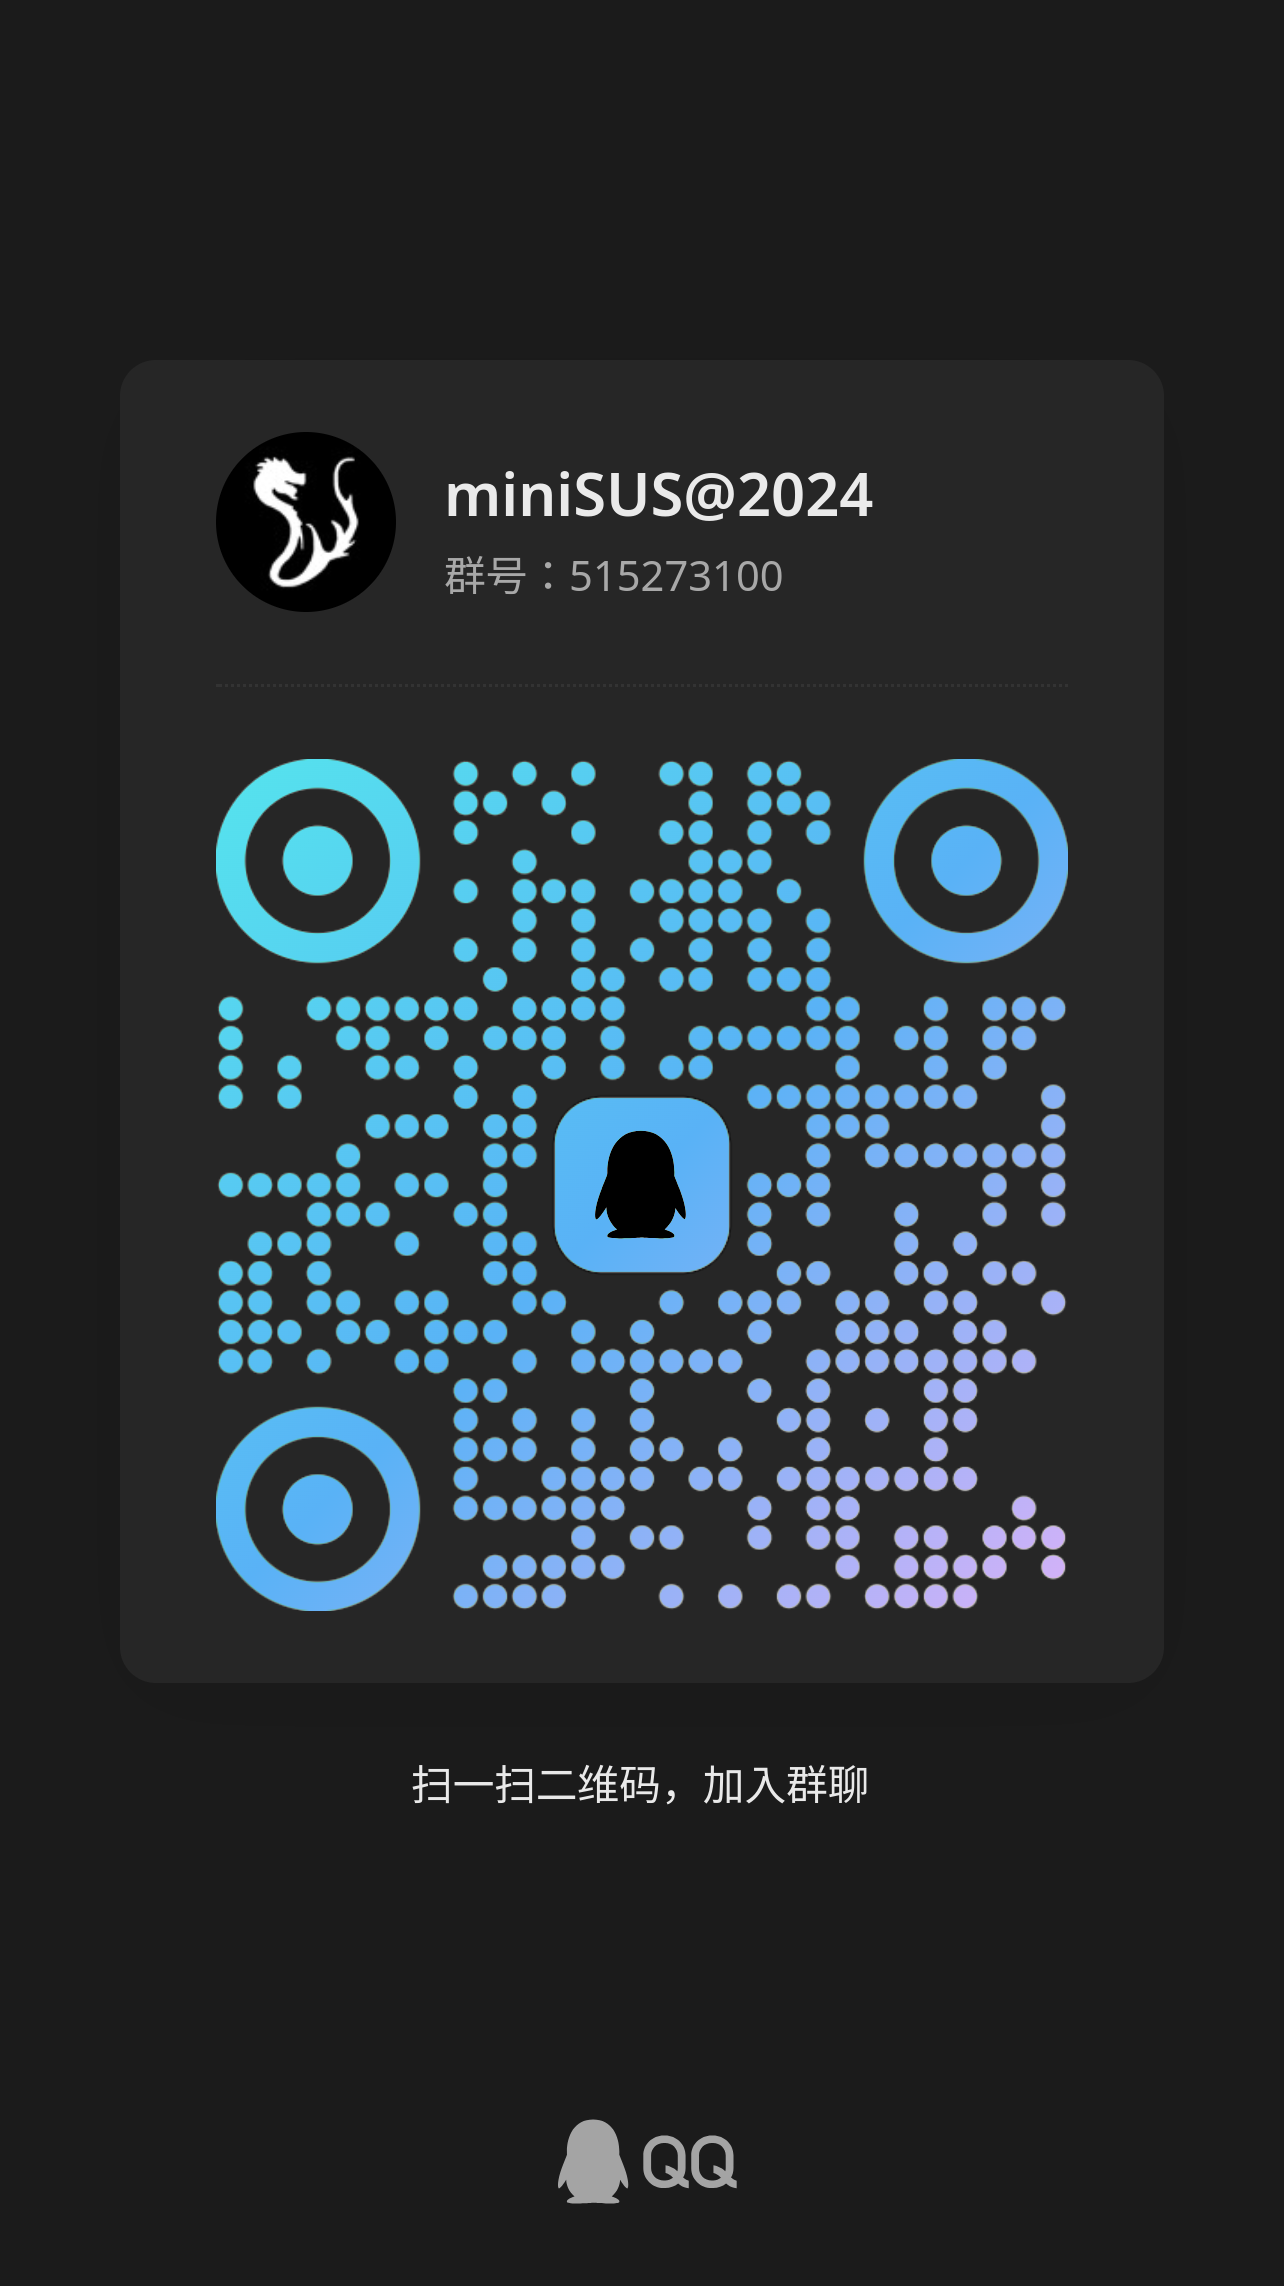
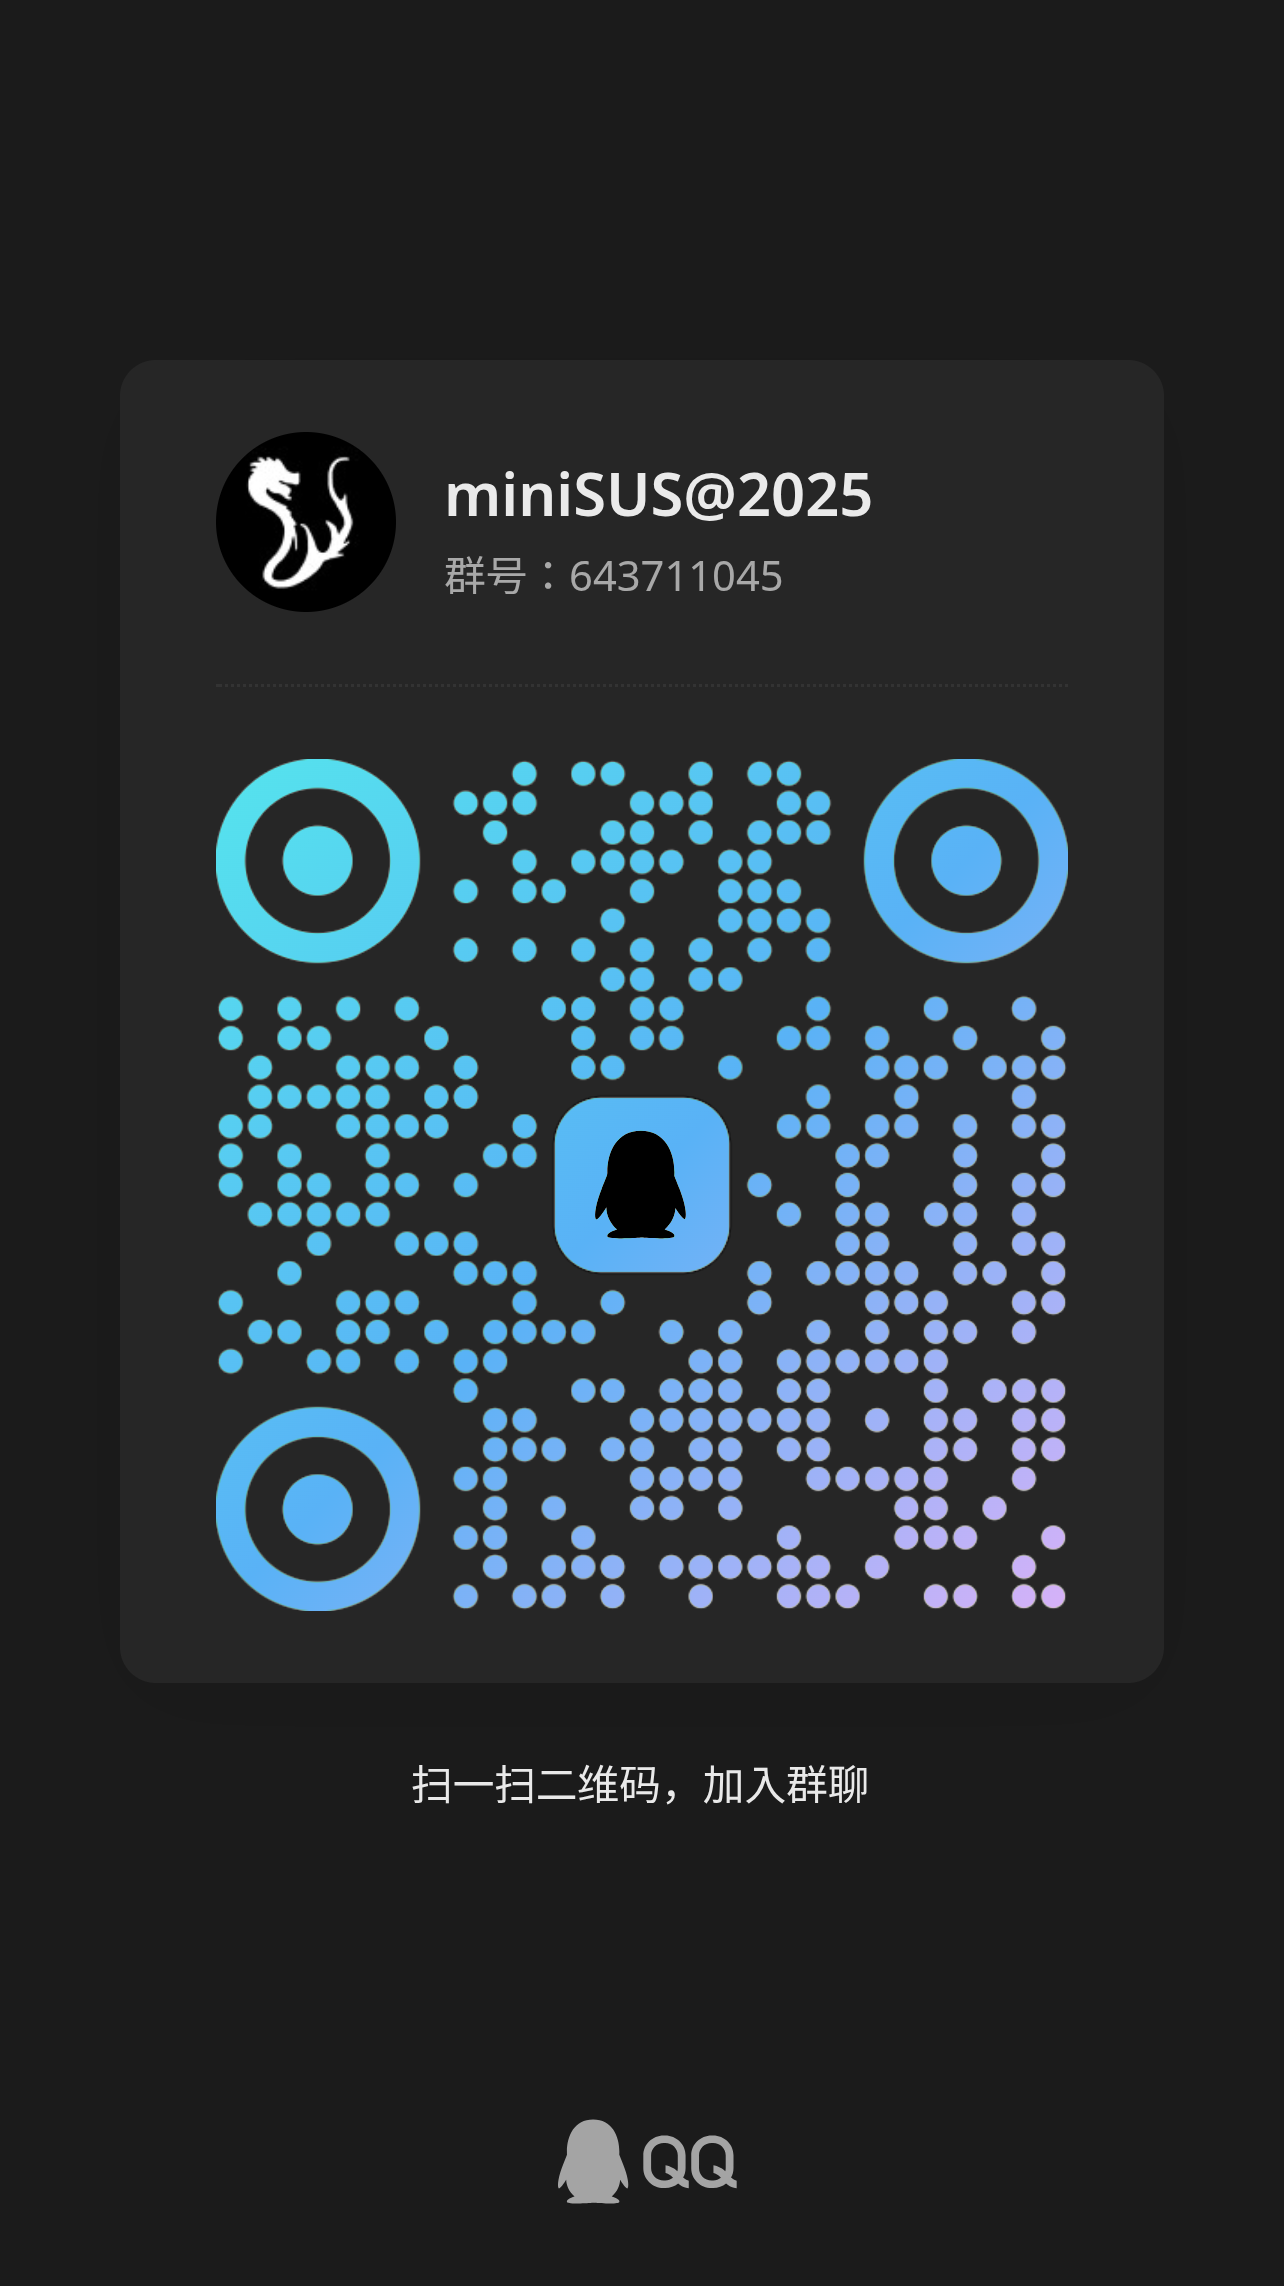
about: update to 2025

diff --git a/content/about/index.md b/content/about/index.md
@@ -8,7 +8,7 @@ header-includes: ['<link rel="stylesheet" href="/members.css">']
 
 东南大学网络安全联盟（Security Union of SEU）成立于2005年，是一个以促进网络安全爱好者交流为目的，普及网络安全知识为宗旨的社团。多年来，网安一直坚持“秉承古典黑客精神，引领一流网络安全体验”的宗旨，活跃在学校的各个角落，致力于信息安全技术研究，为对信息安全感兴趣的同学提供技术交流和学习的平台。社团战队参加各类信息安全竞赛，在各类全国比赛乃至国际比赛中赢得优异成绩；社团内也走出了数位百度、阿里巴巴、腾讯、绿盟等著名互联网公司网络安全团队的技术人才。
 
-SUS@2024 是：
+SUS@2025 是：
 
 <table class="members">
   <tbody>
@@ -19,6 +19,33 @@ SUS@2024 是：
     <td>
       <a href="https://blog.135e2.dev">135e2</a>
       <p>Web</p>
+    </td>
+  </tr>
+  <tr>
+    <td class="avatar">
+      ![](https://github.com/a6y55.png){.avatar}
+    </td>
+    <td>
+      <a href="https://github.com/a6y55">a6y55</a>
+      <p>Reverse/PWN</p>
+    </td>
+  </tr>
+  <tr>
+    <td class="avatar">
+      ![](../logo.jpg){.avatar}
+    </td>
+    <td>
+      <a href="#">BIGSMATER</a>
+      <p>Reverse</p>
+    </td>
+  </tr>
+  <tr>
+    <td class="avatar">
+      ![](../logo.jpg){.avatar}
+    </td>
+    <td>
+      <a href="#">bj777</a>
+      <p>Reverse</p>
     </td>
   </tr>
   <tr>
@@ -50,6 +77,15 @@ SUS@2024 是：
   </tr>
   <tr>
     <td class="avatar">
+      ![](../logo.jpg){.avatar}
+    </td>
+    <td>
+      <a href="#">Ko1sh1</a>
+      <p>Web</p>
+    </td>
+  </tr>
+  <tr>
+    <td class="avatar">
       ![](https://github.com/idawnlight.png){.avatar}
     </td>
     <td>
@@ -59,11 +95,29 @@ SUS@2024 是：
   </tr>
   <tr>
     <td class="avatar">
+      ![](../logo.jpg){.avatar}
+    </td>
+    <td>
+      <a href="#">illunight</a>
+      <p>Crypto/Misc</p>
+    </td>
+  </tr>
+  <tr>
+    <td class="avatar">
       ![](https://github.com/lixiao189.png){.avatar}
     </td>
     <td>
       <a href="https://blog.node189.top/">可燃乌龙茶</a>
       <p>Reverse</p>
+    </td>
+  </tr>
+  <tr>
+    <td class="avatar">
+      ![](../logo.jpg){.avatar}
+    </td>
+    <td>
+      <a href="#">laboon</a>
+      <p>N/A</p>
     </td>
   </tr>
   <tr>
@@ -86,20 +140,11 @@ SUS@2024 是：
   </tr>
   <tr>
     <td class="avatar">
-      ![](https://github.com/Lethephyr.png){.avatar}
-    </td>
-    <td>
-      <a href="https://github.com/Lethephyr">Lethephyr</a>
-      <p>Reverse</p>
-    </td>
-  </tr>
-  <tr>
-    <td class="avatar">
       ![](https://github.com/l0ngque.png){.avatar}
     </td>
     <td>
       <a href="https://github.com/l0ngque">l0ngque</a>
-      <p>PWN</p>
+      <p>PWN ★ Honoral Member</p>
     </td>
   </tr>
   <tr>
@@ -117,7 +162,7 @@ SUS@2024 是：
     </td>
     <td>
       <a href="#">Mapl</a>
-      <p>MISC/Crypto ★ Honoral Member</p>
+      <p>Misc/Crypto ★ Honoral Member</p>
     </td>
   </tr>
   <tr>
@@ -127,6 +172,15 @@ SUS@2024 是：
     <td>
       <a href="#">menduogesei</a>
       <p>Reverse</p>
+    </td>
+  </tr>
+  <tr>
+    <td class="avatar">
+      ![](../logo.jpg){.avatar}
+    </td>
+    <td>
+      <a href="#">MorgenEule</a>
+      <p>Misc/AI</p>
     </td>
   </tr>
   <tr>
@@ -179,6 +233,15 @@ SUS@2024 是：
       ![](../logo.jpg){.avatar}
     </td>
     <td>
+      <a href="#">sh7err</a>
+      <p>Web</p>
+    </td>
+  </tr>
+  <tr>
+    <td class="avatar">
+      ![](../logo.jpg){.avatar}
+    </td>
+    <td>
       <a href="#">ShouCheng</a>
       <p>PWN</p>
     </td>
@@ -194,11 +257,20 @@ SUS@2024 是：
   </tr>
   <tr>
     <td class="avatar">
-      ![](https://github.com/U3sug1Er1i.png){.avatar}
+      ![](../logo.jpg){.avatar}
     </td>
     <td>
-      <a href="https://github.com/U3sug1Er1i">U3sug1Er1i</a>
-      <p>Reverse</p>
+      <a href="#">依言范特西</a>
+      <p>PWN</p>
+    </td>
+  </tr>
+  <tr>
+    <td class="avatar">
+      ![](https://github.com/zysgmzb.png){.avatar}
+    </td>
+    <td>
+      <a href="https://zysgmzb.club/">zysgmzb</a>
+      <p>Misc</p>
     </td>
   </tr>
   </tbody>

diff --git a/content/about/index.tmpl.md b/content/about/index.tmpl.md
@@ -7,7 +7,7 @@ header-includes: ['<link rel="stylesheet" href="/members.css">']
 
 东南大学网络安全联盟（Security Union of SEU）成立于2005年，是一个以促进网络安全爱好者交流为目的，普及网络安全知识为宗旨的社团。多年来，网安一直坚持“秉承古典黑客精神，引领一流网络安全体验”的宗旨，活跃在学校的各个角落，致力于信息安全技术研究，为对信息安全感兴趣的同学提供技术交流和学习的平台。社团战队参加各类信息安全竞赛，在各类全国比赛乃至国际比赛中赢得优异成绩；社团内也走出了数位百度、阿里巴巴、腾讯、绿盟等著名互联网公司网络安全团队的技术人才。
 
-SUS@2024 是：
+SUS@2025 是：
 
 {{members_table}}
 
